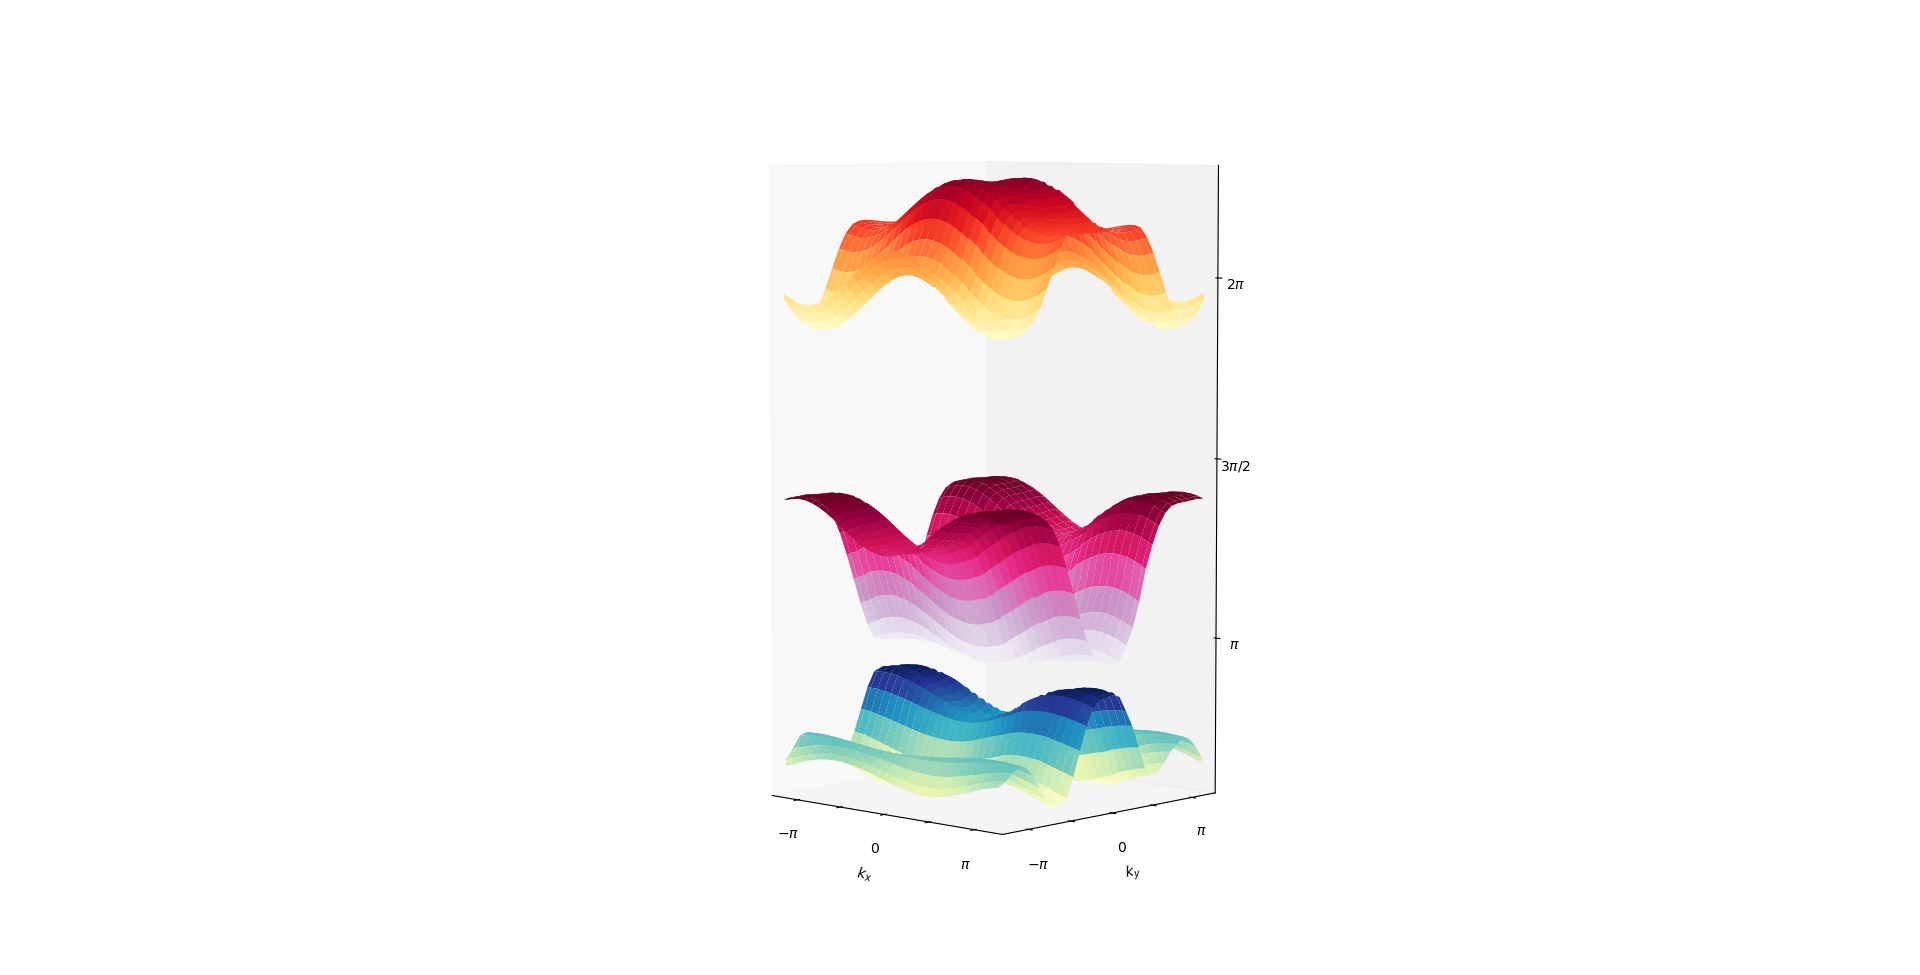
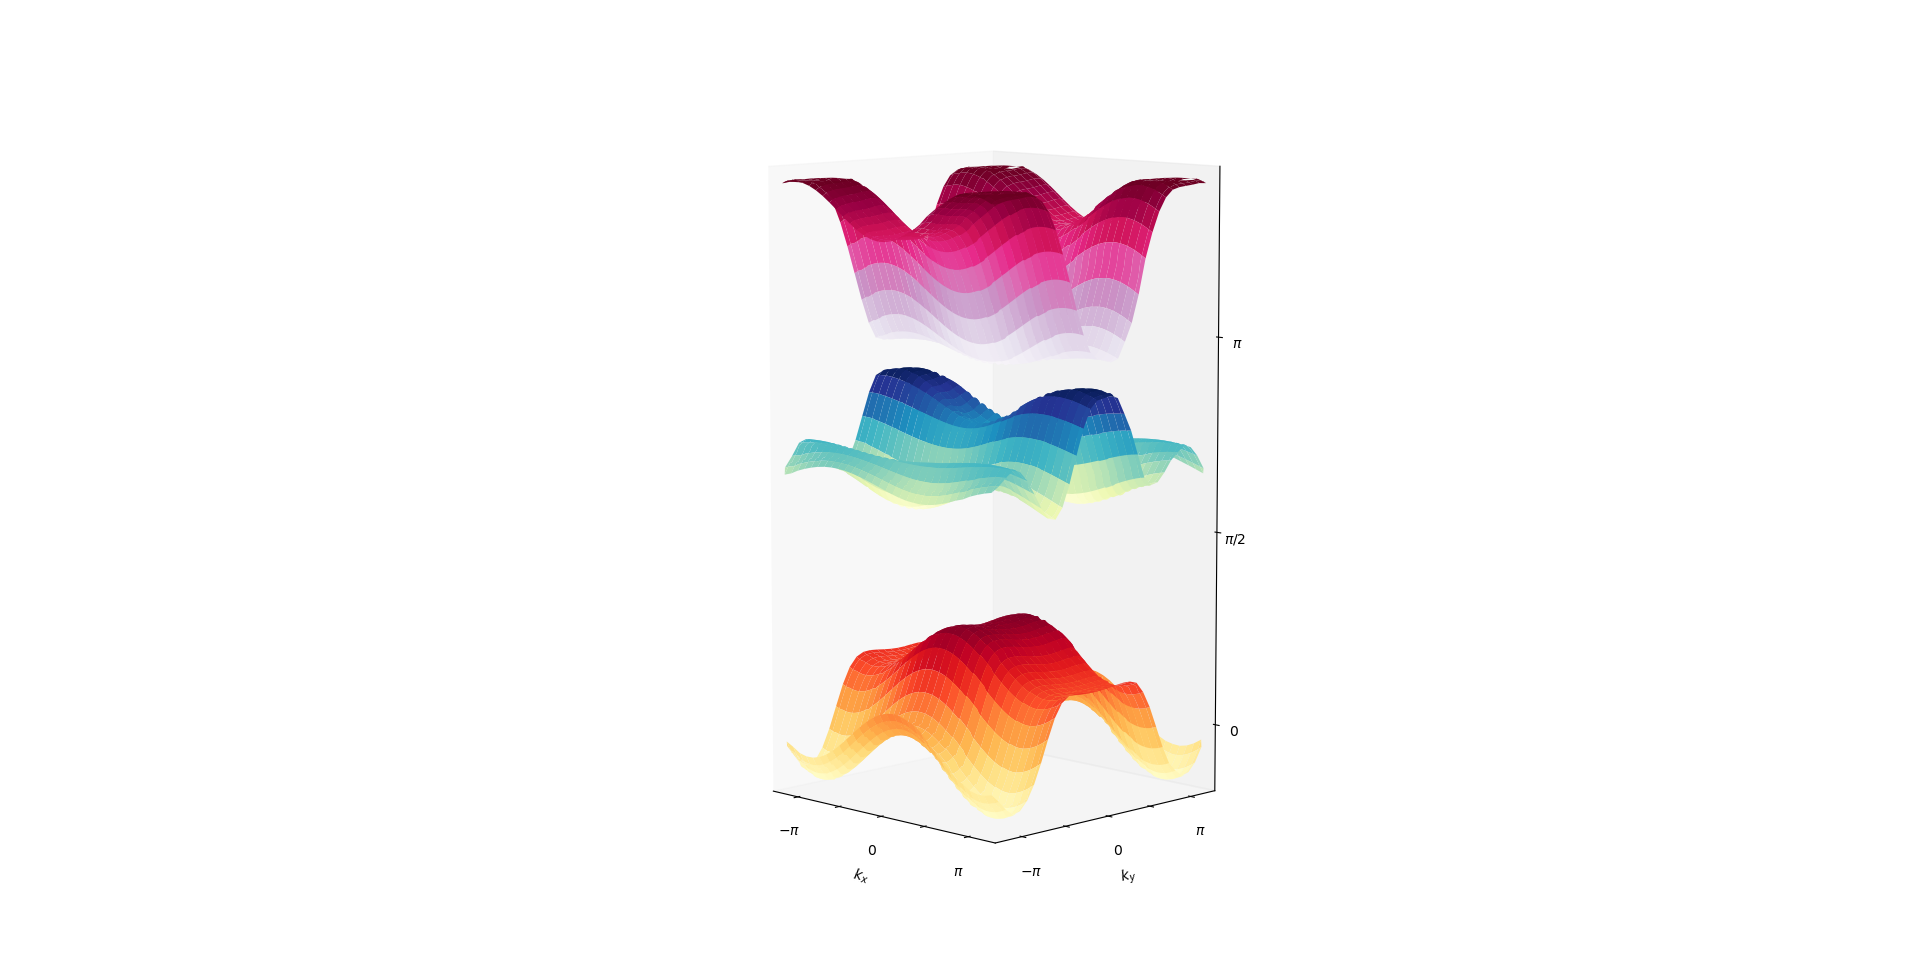
Braiding

Changed region(s): [[0.4062, 0.1538, 0.6562, 0.8615]]

diff --git a/square_complete.py b/square_complete.py
@@ -16,8 +16,8 @@ plot_from_save = True
 
 
 # PARAMETERS
-delta_A = -0.5
-delta_C = -2
+delta_A = 0
+delta_C = -2.5
 omega = 11
 A_x = 1
 A_y = 1
@@ -32,7 +32,7 @@ a_2 = np.array([0,1])
 num_points = 100
 num_steps = 100
 num_lines = 100
-lowest_quasi_energy = np.pi / 2
+lowest_quasi_energy = -np.pi / 2
 offsets = np.zeros((3,2))
 
 
